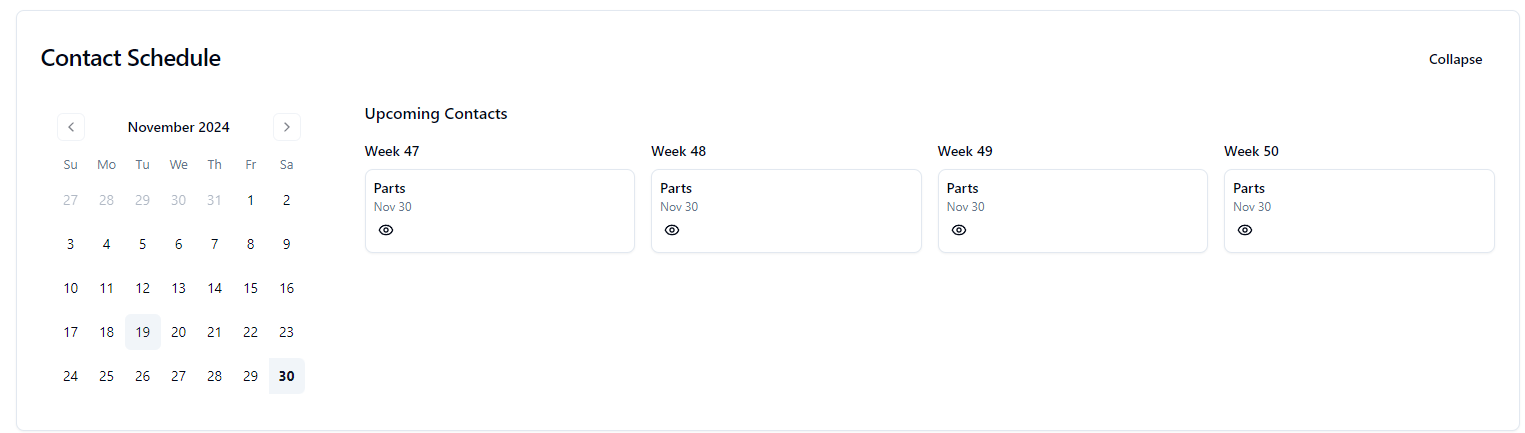
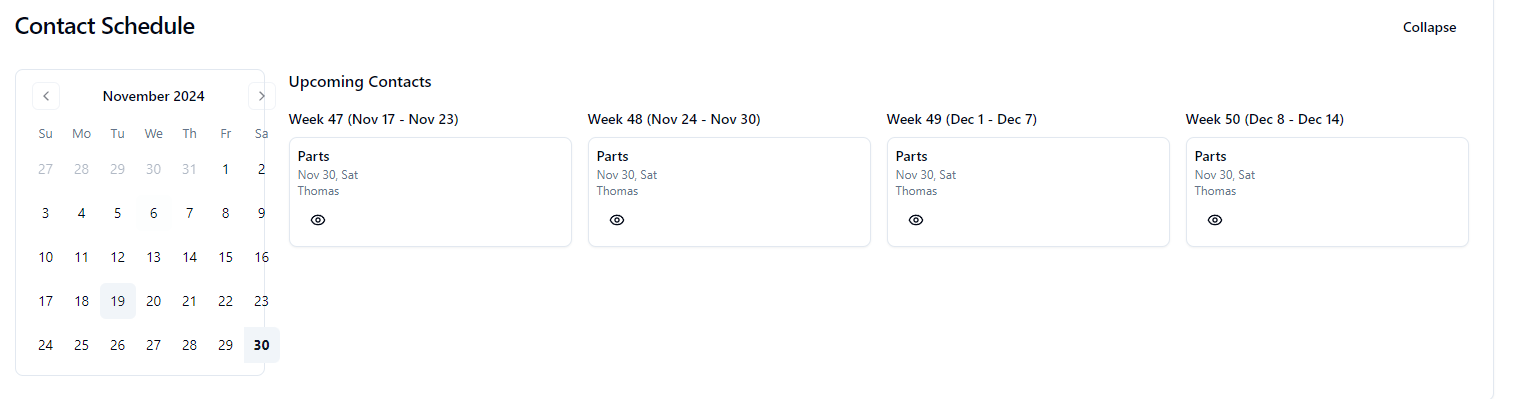
Agent query: Please verify if: 1. Calendar days are properly sized and aligned 2. Selected dates are highlighted correctly 3. Events are only shown in their correct week when a date is selected 4. Today's date has the accent background color

diff --git a/client/src/pages/Pipeline.tsx b/client/src/pages/Pipeline.tsx
@@ -305,7 +305,7 @@ export default function Pipeline() {
           </Button>
         </CardHeader>
         <CardContent className={cn("transition-all", isCalendarExpanded ? "max-h-[800px]" : "max-h-0 overflow-hidden")}>
-          <div className="grid grid-cols-[250px_1fr] gap-6">
+          <div className="grid grid-cols-[280px_1fr] gap-6">
             <div>
               <Calendar
                 mode="single"
@@ -321,7 +321,14 @@ export default function Pipeline() {
                     fontWeight: 'bold'
                   }
                 }}
-                className="w-full max-w-[250px] border rounded-lg p-3"
+                className="w-full max-w-[280px] border rounded-lg p-3"
+                classNames={{
+                  day_range_middle: "text-center px-1",
+                  day: "h-9 w-9 p-0 font-normal aria-selected:opacity-100",
+                  day_selected: "bg-primary text-primary-foreground hover:bg-primary hover:text-primary-foreground focus:bg-primary focus:text-primary-foreground",
+                  day_today: "bg-accent text-accent-foreground",
+                  day_outside: "text-muted-foreground opacity-50",
+                }}
               />
             </div>
             
@@ -337,7 +344,9 @@ export default function Pipeline() {
                       if (!o.nextContact) return false;
                       const contactDate = new Date(o.nextContact);
                       if (selectedDate) {
-                        return format(contactDate, 'yyyy-MM-dd') === format(selectedDate, 'yyyy-MM-dd');
+                        // When a date is selected, only show events for that date in the correct week
+                        return format(contactDate, 'yyyy-MM-dd') === format(selectedDate, 'yyyy-MM-dd') &&
+                               isWithinInterval(contactDate, { start: weekStart, end: weekEnd });
                       }
                       return isWithinInterval(contactDate, { start: weekStart, end: weekEnd });
                     })
